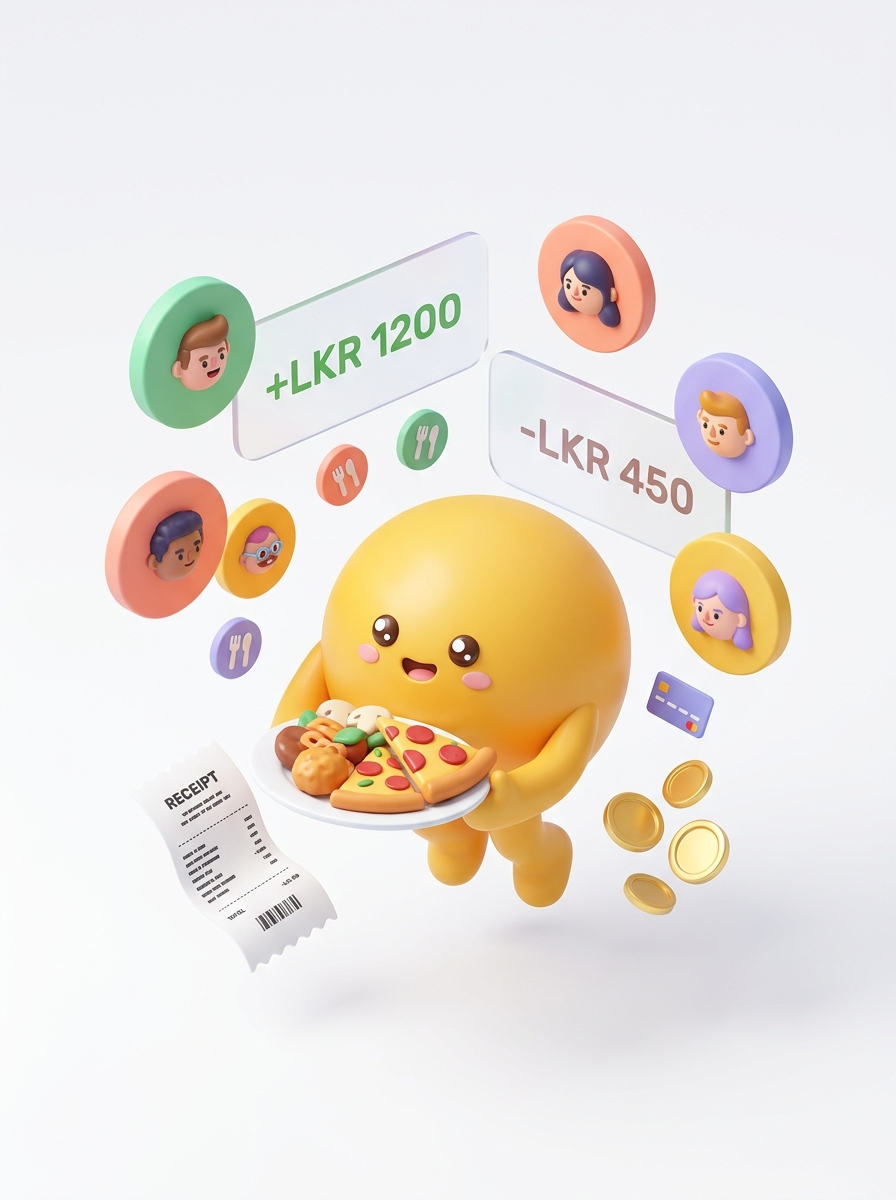
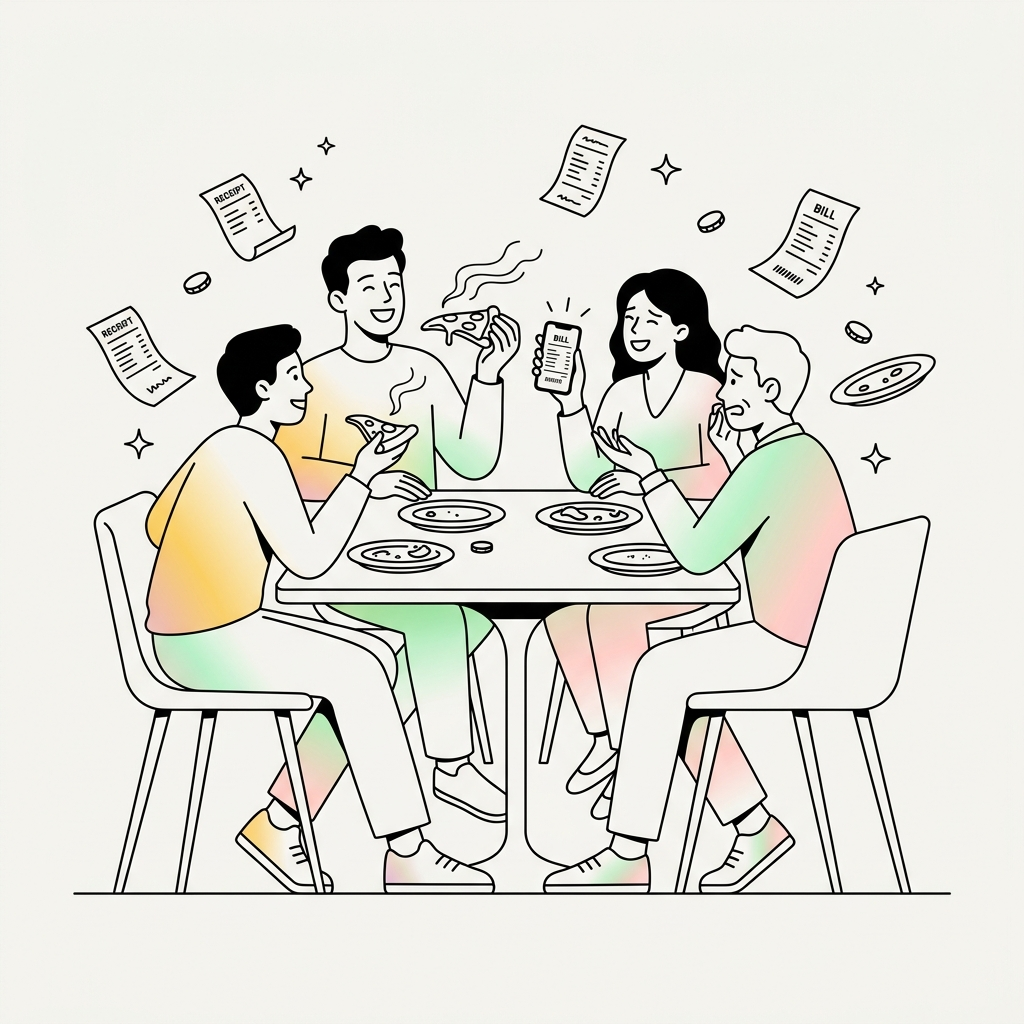
feat: switch welcome hero to Notion editorial line-art with pastel gradient aesthetic

diff --git a/src/views/Login.tsx b/src/views/Login.tsx
@@ -33,15 +33,15 @@ export function Login({ onGuestLogin }: LoginProps) {
       <div className="w-full max-w-5xl bg-white md:rounded-[36px] md:shadow-[0_20px_60px_-15px_rgba(0,0,0,0.07)] md:border md:border-gray-100 overflow-hidden flex flex-col md:flex-row min-h-screen md:min-h-0">
 
         {/* ── MOBILE ONLY: Full-width graphic on top ── */}
-        <div className="md:hidden w-full h-56 sm:h-72 bg-[#E9F3EE] relative overflow-hidden flex-shrink-0">
-          {/* Ambient glows */}
-          <div className="absolute top-[-30%] right-[-20%] w-56 h-56 bg-[#F5C744]/35 rounded-full blur-3xl pointer-events-none" />
-          <div className="absolute bottom-[-30%] left-[-20%] w-56 h-56 bg-[#4C8C3C]/20 rounded-full blur-3xl pointer-events-none" />
-          {/* 3D Illustration - fully stretched */}
+        <div className="md:hidden w-full h-64 sm:h-80 bg-[#F7F6F3] relative overflow-hidden flex-shrink-0 border-b border-black/5 flex items-center justify-center p-3">
+          {/* Ambient subtle glow */}
+          <div className="absolute top-[-30%] right-[-20%] w-56 h-56 bg-[#F5C744]/20 rounded-full blur-3xl pointer-events-none" />
+          <div className="absolute bottom-[-30%] left-[-20%] w-56 h-56 bg-[#4C8C3C]/15 rounded-full blur-3xl pointer-events-none" />
+          {/* Notion Line Art Illustration */}
           <img
             src="/welcome-hero.jpg"
-            alt="Plates 3D Dining Mascot"
-            className="absolute inset-0 w-full h-full object-cover"
+            alt="Plates Dining Friends"
+            className="w-full h-full object-contain relative z-10"
             loading="eager"
           />
         </div>
@@ -51,7 +51,7 @@ export function Login({ onGuestLogin }: LoginProps) {
           <div>
             {/* Brand Logo */}
             <div className="flex items-center gap-3 mb-6 md:mb-8">
-              <div className="w-11 h-11 bg-[#F5C744] rounded-2xl flex items-center justify-center shadow-md shadow-[#F5C744]/30 rotate-[-4deg] transition-transform hover:rotate-0">
+              <div className="w-11 h-11 bg-[#F5C744] rounded-2xl flex items-center justify-center shadow-xs border border-black/5 rotate-[-3deg] transition-transform hover:rotate-0">
                 <svg width="24" height="24" viewBox="0 0 24 24" fill="none" stroke="#1A1A1A" strokeWidth="2.5" strokeLinecap="round" strokeLinejoin="round">
                   <path d="M12 2v20M17 5H9.5a3.5 3.5 0 0 0 0 7h5a3.5 3.5 0 0 1 0 7H6" />
                 </svg>
@@ -60,7 +60,7 @@ export function Login({ onGuestLogin }: LoginProps) {
             </div>
 
             {/* Headline */}
-            <h1 className="text-2xl sm:text-3xl md:text-[40px] font-extrabold font-display tracking-tight text-[#1A1A1A] leading-[1.2] mb-3 md:mb-4">
+            <h1 className="text-2xl sm:text-3xl md:text-[38px] font-extrabold font-display tracking-tight text-[#1A1A1A] leading-[1.2] mb-3 md:mb-4">
               Split dining bills effortlessly with friends.
             </h1>
 
@@ -76,7 +76,7 @@ export function Login({ onGuestLogin }: LoginProps) {
             <button
               onClick={handleGoogleLogin}
               disabled={isLoading}
-              className="w-full h-13 sm:h-14 bg-[#1A1A1A] hover:bg-[#2A2A2A] text-white rounded-2xl flex items-center justify-center gap-3.5 transition-all duration-200 hover:shadow-lg hover:shadow-black/10 active:scale-[0.99] disabled:opacity-70 cursor-pointer font-sans-app"
+              className="w-full h-13 sm:h-14 bg-[#1A1A1A] hover:bg-[#2A2A2A] text-white rounded-2xl flex items-center justify-center gap-3.5 transition-all duration-200 hover:shadow-md active:scale-[0.99] disabled:opacity-70 cursor-pointer font-sans-app"
             >
               <div className="w-7 h-7 bg-white rounded-full flex items-center justify-center">
                 <svg width="18" height="18" viewBox="0 0 24 24" xmlns="http://www.w3.org/2000/svg">
@@ -114,15 +114,15 @@ export function Login({ onGuestLogin }: LoginProps) {
           </div>
         </div>
 
-        {/* ── DESKTOP ONLY: Right-side 3D illustration panel ── */}
-        <div className="hidden md:flex w-1/2 bg-[#E9F3EE] p-8 md:p-12 items-center justify-center relative overflow-hidden">
-          <div className="absolute top-[-20%] right-[-20%] w-60 h-60 bg-[#F5C744]/30 rounded-full blur-3xl pointer-events-none" />
-          <div className="absolute bottom-[-20%] left-[-20%] w-60 h-60 bg-[#4C8C3C]/20 rounded-full blur-3xl pointer-events-none" />
-          <div className="relative w-full max-w-[420px] aspect-square rounded-3xl overflow-hidden shadow-[0_15px_40px_rgba(0,0,0,0.08)] border border-white/60">
+        {/* ── DESKTOP ONLY: Right-side Notion line-art panel ── */}
+        <div className="hidden md:flex w-1/2 bg-[#F7F6F3] p-8 md:p-12 items-center justify-center relative overflow-hidden border-l border-black/5">
+          <div className="absolute top-[-20%] right-[-20%] w-60 h-60 bg-[#F5C744]/25 rounded-full blur-3xl pointer-events-none" />
+          <div className="absolute bottom-[-20%] left-[-20%] w-60 h-60 bg-[#4C8C3C]/15 rounded-full blur-3xl pointer-events-none" />
+          <div className="relative w-full max-w-[440px] aspect-square rounded-3xl overflow-hidden shadow-sm border border-black/5 bg-white p-3">
             <img
               src="/welcome-hero.jpg"
-              alt="Plates 3D Dining Mascot"
-              className="w-full h-full object-cover"
+              alt="Plates Dining Friends"
+              className="w-full h-full object-contain rounded-2xl"
               loading="eager"
             />
           </div>
